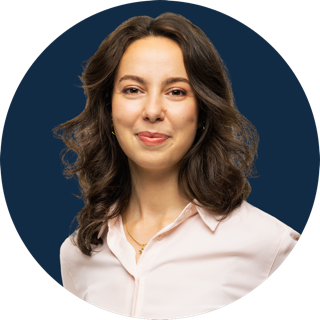
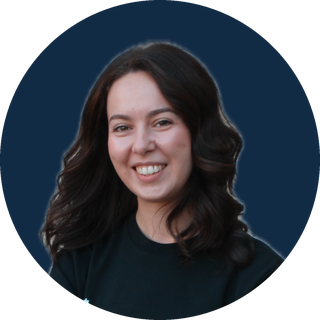
Page équipe : nouvelle couverture de groupe, portrait de Julia remplacé, quatre photos ajoutées à la galerie

diff --git a/notre-equipe.html b/notre-equipe.html
@@ -81,7 +81,10 @@ nav{position:fixed;top:0;left:0;right:0;z-index:100;display:flex;align-items:cen
 .page-hero{min-height:100vh;min-height:100svh;background:var(--navy-deep);display:flex;flex-direction:column;justify-content:center;padding:150px 60px 70px;position:relative;overflow:hidden;}
 .page-hero::before{content:"";position:absolute;inset:0;z-index:1;background:linear-gradient(80deg,rgba(11,29,48,.96) 0%,rgba(11,29,48,.84) 38%,rgba(11,29,48,.56) 68%,rgba(18,43,68,.4) 100%),linear-gradient(to top,rgba(11,29,48,.92) 0%,rgba(11,29,48,.3) 32%,rgba(11,29,48,.08) 58%);}
 .page-hero-bg-img{position:absolute;inset:0;width:100%;height:100%;object-fit:cover;object-position:center 30%;opacity:.85;pointer-events:none;z-index:0;}
-.page-hero > *:not(.page-hero-bg-img){position:relative;z-index:2;}
+.page-hero > *:not(.page-hero-bg-img):not(picture){position:relative;z-index:2;}
+.page-hero .page-hero-bg-img{object-position:center 55%;}
+/* Téléphone : la photo de groupe reste entière, calée en haut, et se fond dans le bleu en bas */
+@media(max-width:768px){.page-hero .page-hero-bg-img{inset:0 0 auto 0;height:auto;object-fit:contain;object-position:center top;-webkit-mask-image:linear-gradient(180deg,#000 60%,transparent 95%);mask-image:linear-gradient(180deg,#000 60%,transparent 95%);}}
 @media(max-width:768px){.page-hero::before{background:linear-gradient(180deg,rgba(11,29,48,.5) 0%,rgba(11,29,48,.28) 32%,rgba(11,29,48,.55) 70%,rgba(11,29,48,.9) 100%),linear-gradient(90deg,rgba(11,29,48,.85) 0%,rgba(11,29,48,.5) 48%,rgba(11,29,48,.18) 100%);}.page-hero-bg-img{opacity:.9;object-position:center 32%;}}
 .page-hero-eyebrow{font-family:'Bebas Neue',sans-serif;font-size:22px;letter-spacing:5px;color:var(--blue-sky);opacity:.8;margin-bottom:14px;position:relative;z-index:1;}
 .page-hero h1{font-family:'Bebas Neue',sans-serif;font-size:clamp(44px,7.6vw,92px);line-height:1;letter-spacing:.5px;color:white;position:relative;z-index:1;}
@@ -228,7 +231,10 @@ footer{background:var(--navy-deep);padding:40px 60px;}
 
 <!-- HERO -->
 <header class="page-hero">
-  <img src="images/couvertures/equipe.webp" alt="" class="page-hero-bg-img" fetchpriority="high">
+  <picture>
+    <source media="(max-width:768px)" srcset="images/couvertures/equipe-mobile.webp?v=1">
+    <img src="images/couvertures/equipe.webp?v=2" alt="" class="page-hero-bg-img" fetchpriority="high">
+  </picture>
   <div class="page-hero-eyebrow">L'organisation</div>
   <h1>UNE ÉQUIPE <em>ORGA</em><br>DE CHOC.</h1>
   <p>10 personnes bénévoles qui donnent de leur temps pour faire vivre le club. Du président à la comm', ils sont derrière chaque run, chaque événement, chaque café.</p>
@@ -279,7 +285,7 @@ footer{background:var(--navy-deep);padding:40px 60px;}
       <div class="card-back"><div class="card-back-text">Tout le monde est sympa sauf moi.</div></div>
     </div></div>
     <div class="orga-card"><div class="card-inner">
-      <div class="card-front"><img src="images/equipe/julia.png" alt="Julia" class="orga-photo" loading="lazy" decoding="async"><div class="orga-name">Julia</div><div class="orga-role">Événementiel</div><div class="orga-role2">Référente prévention &amp; sécurité</div></div>
+      <div class="card-front"><img src="images/equipe/julia.png?v=2" alt="Julia" class="orga-photo" loading="lazy" decoding="async"><div class="orga-name">Julia</div><div class="orga-role">Événementiel</div><div class="orga-role2">Référente prévention &amp; sécurité</div></div>
       <div class="card-back"><div class="card-back-text">Je suis venue par hasard en novembre 2024 et je ne suis jamais repartie.</div></div>
     </div></div>
     <div class="orga-card"><div class="card-inner">
@@ -330,7 +336,7 @@ footer{background:var(--navy-deep);padding:40px 60px;}
 /* ===== EN IMAGES (carrousel équipe) ===== */
 (function(){
   const wrap=document.getElementById('amediaTrack');if(!wrap)return;
-  const photos=['images/equipe/groupe-15.jpg','images/equipe/groupe-13.jpg','images/equipe/groupe-14.jpg','images/equipe/groupe-16.jpg','images/equipe/groupe-17.jpg','images/equipe/groupe-18.jpg'];
+  const photos=['images/equipe/groupe-15.jpg','images/equipe/groupe-19.jpg','images/equipe/groupe-13.jpg','images/equipe/groupe-20.jpg','images/equipe/groupe-14.jpg','images/equipe/groupe-21.jpg','images/equipe/groupe-16.jpg','images/equipe/groupe-22.jpg','images/equipe/groupe-17.jpg','images/equipe/groupe-18.jpg'];
   wrap.innerHTML=photos.map(src=>`<div class="amedia-tile"><img src="${src}" alt="L'équipe CIELBLEU" class="amedia-tile-img" loading="lazy" decoding="async"></div>`).join('');
 })();
 
